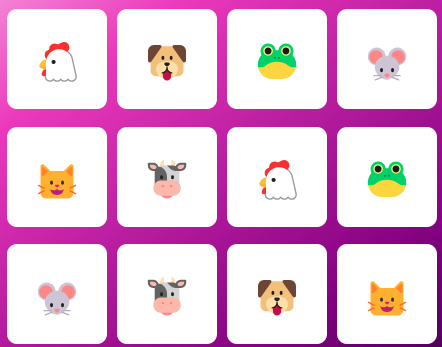
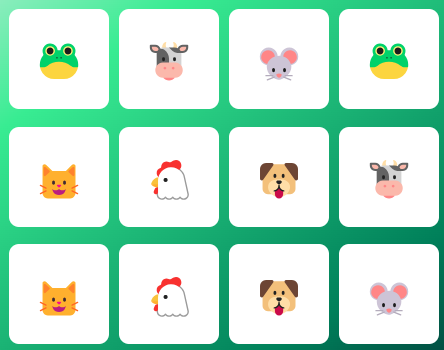
mud cores

diff --git a/src/styles/main.css b/src/styles/main.css
@@ -8,7 +8,7 @@ body,
 
 body {
     min-height: 100vh;
-    background-color: #fc1e8a;
+    background-color: #1efc94;
     user-select: none;
 }
 
@@ -20,8 +20,8 @@ body {
     background: linear-gradient(325deg,
             /*Raio de inicio do gradiente*/
             #03001e 0%,
-            #800080 30%,
-            #ec38bc 70%,
+            #00805a 30%,
+            #38ec92 70%,
             #fdeff9 100%);
     padding: 40px 60px;
     height: 100vh;
@@ -44,14 +44,14 @@ body {
     padding: 15px 20px;
     width: 100%;
     background-color: transparent;
-    border: 2px solid #e989ec;
+    border: 2px solid #89ece4;
     color: #ffffff;
     cursor: pointer;
 }
 
 /* quando der o clique no butao a cor do texto e fundo mudara. */
 .reset:focus {
-    color: #ec38bc;
+    color: #38d7ec;
     background-color: #fff;
 }
 

diff --git a/README.md b/README.md
@@ -25,14 +25,14 @@ O Projeto consiste em um jogo interativo de memória, no qual o Player se desafi
     <img src='/src/images/tela-jogo.png' width="80%">
 </div>
 
-<p align="right"><a href="#top"><img src="https://img.shields.io/static/v1?label&message=voltar+ao+topo&color=ec38bc&logo" alt="voltar ao topo" /></a></p>
+<p align="right"><a href="#top"><img src="https://img.shields.io/static/v1?label&message=voltar+ao+topo&color=00805a&logo" alt="voltar ao topo" /></a></p>
 
 ## :hammer_and_wrench: Funcionalidades
 - [x] Clique nos cards para desvira-los
 - [x] Combinação de pares de cards
 - [x] Reset do jogo
 
-<p align="right"><a href="#top"><img src="https://img.shields.io/static/v1?label&message=voltar+ao+topo&color=ec38bc&logo" alt="voltar ao topo" /></a></p>
+<p align="right"><a href="#top"><img src="https://img.shields.io/static/v1?label&message=voltar+ao+topo&color=00805a&logo" alt="voltar ao topo" /></a></p>
 
 ## :computer: Tecnologias e recursos utilizados
 - [VSCode](https://code.visualstudio.com/)
@@ -41,7 +41,7 @@ O Projeto consiste em um jogo interativo de memória, no qual o Player se desafi
 #### Fontes
 - Monospace
 
-<p align="right"><a href="#top"><img src="https://img.shields.io/static/v1?label&message=voltar+ao+topo&color=ec38bc&logo" alt="voltar ao topo" /></a></p>
+<p align="right"><a href="#top"><img src="https://img.shields.io/static/v1?label&message=voltar+ao+topo&color=00805a&logo" alt="voltar ao topo" /></a></p>
 
 ## :woman_technologist: Desenvolvedora
 
@@ -56,4 +56,4 @@ O Projeto consiste em um jogo interativo de memória, no qual o Player se desafi
 <a href="https://www.linkedin.com/in/evely-tereza-518a18215/"><img src="https://img.shields.io/static/v1?label&message=/in/evelytereza&color=0A66C2&style=plastic&logo=linkedin" alt="link de acesso ao meu LinkedIn" /></a>
 <a href="mailto:terezaevely@gmail.com"><img src="https://img.shields.io/static/v1?label&message=terezaevely@gmail.com&color=whitesmoke&style=plastic&logo=gmail" alt="link para me mandar um e-mail" /></a>
 
-<p align="right"><a href="#top"><img src="https://img.shields.io/static/v1?label&message=voltar+ao+topo&color=ec38bc&logo" alt="voltar ao topo" /></a></p>
+<p align="right"><a href="#top"><img src="https://img.shields.io/static/v1?label&message=voltar+ao+topo&color=00805a&logo" alt="voltar ao topo" /></a></p>
